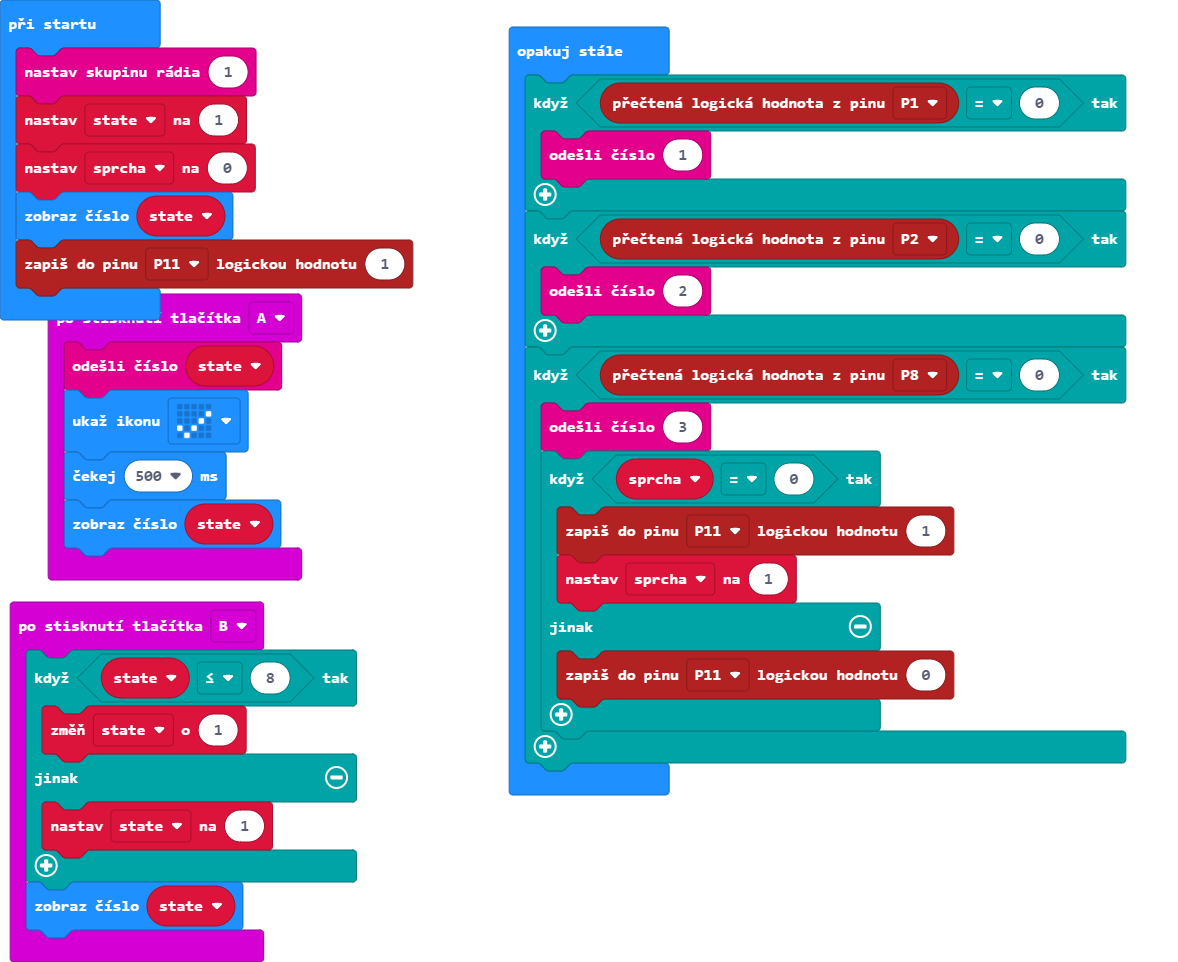
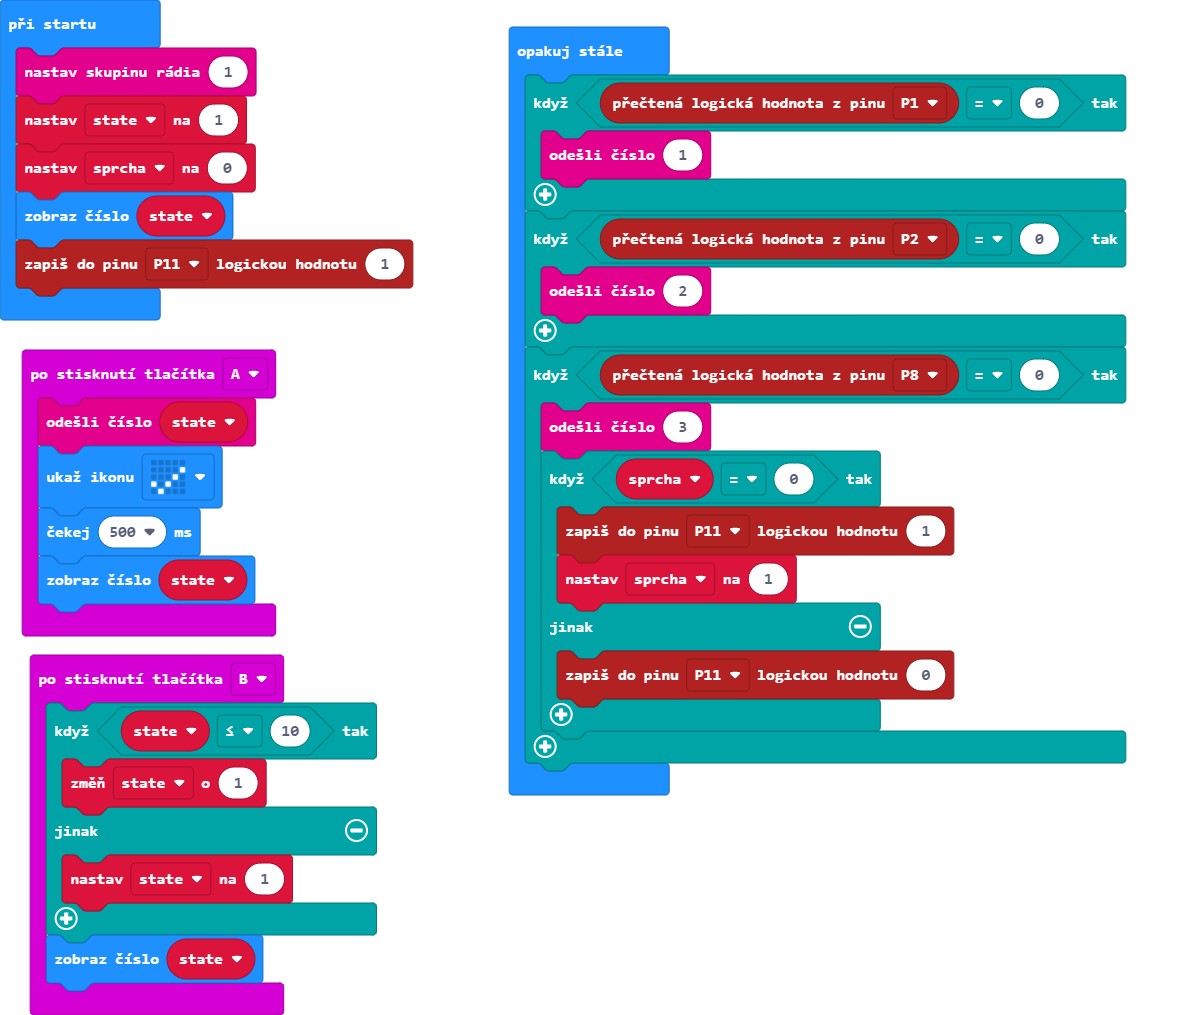
Aktualizovat main.blocks, main.ts

diff --git a/main.ts b/main.ts
@@ -5,7 +5,7 @@ input.onButtonPressed(Button.A, function () {
     basic.showNumber(state)
 })
 input.onButtonPressed(Button.B, function () {
-    if (state <= 8) {
+    if (state <= 10) {
         state += 1
     } else {
         state = 1
